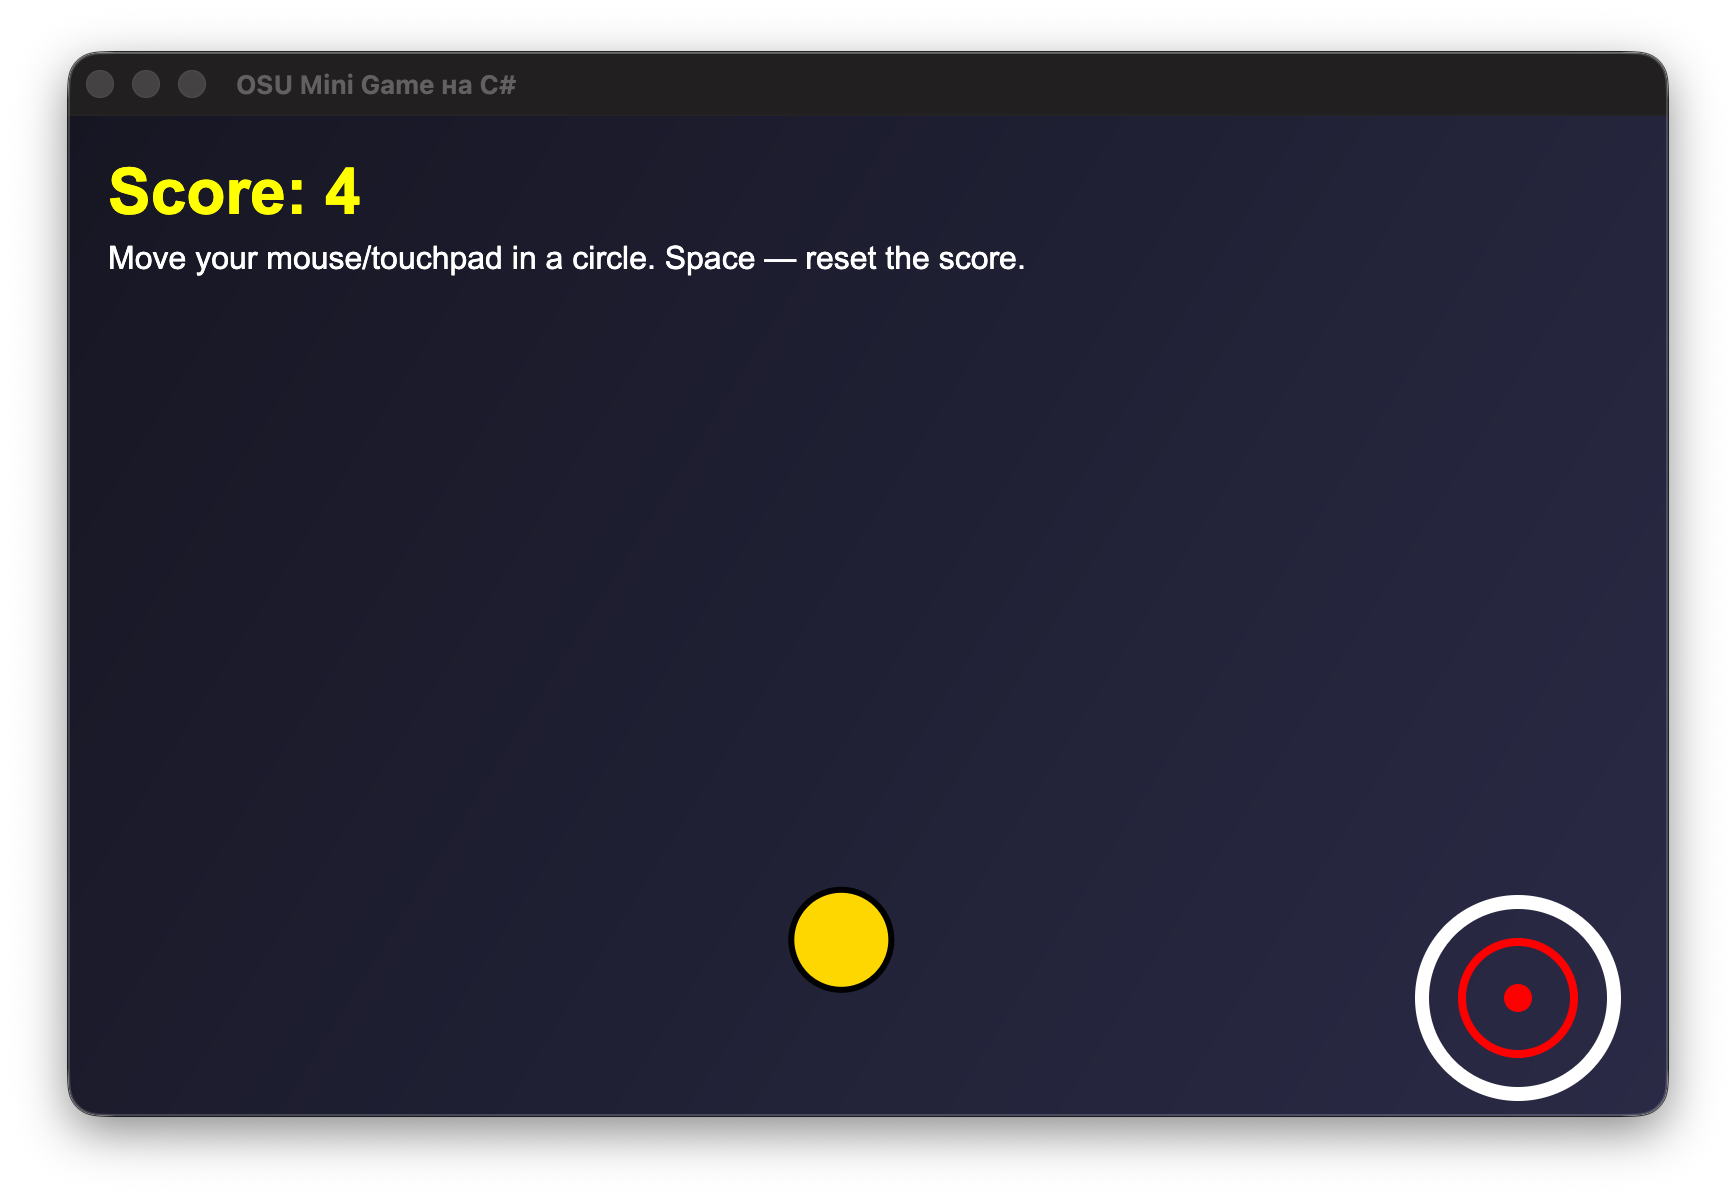
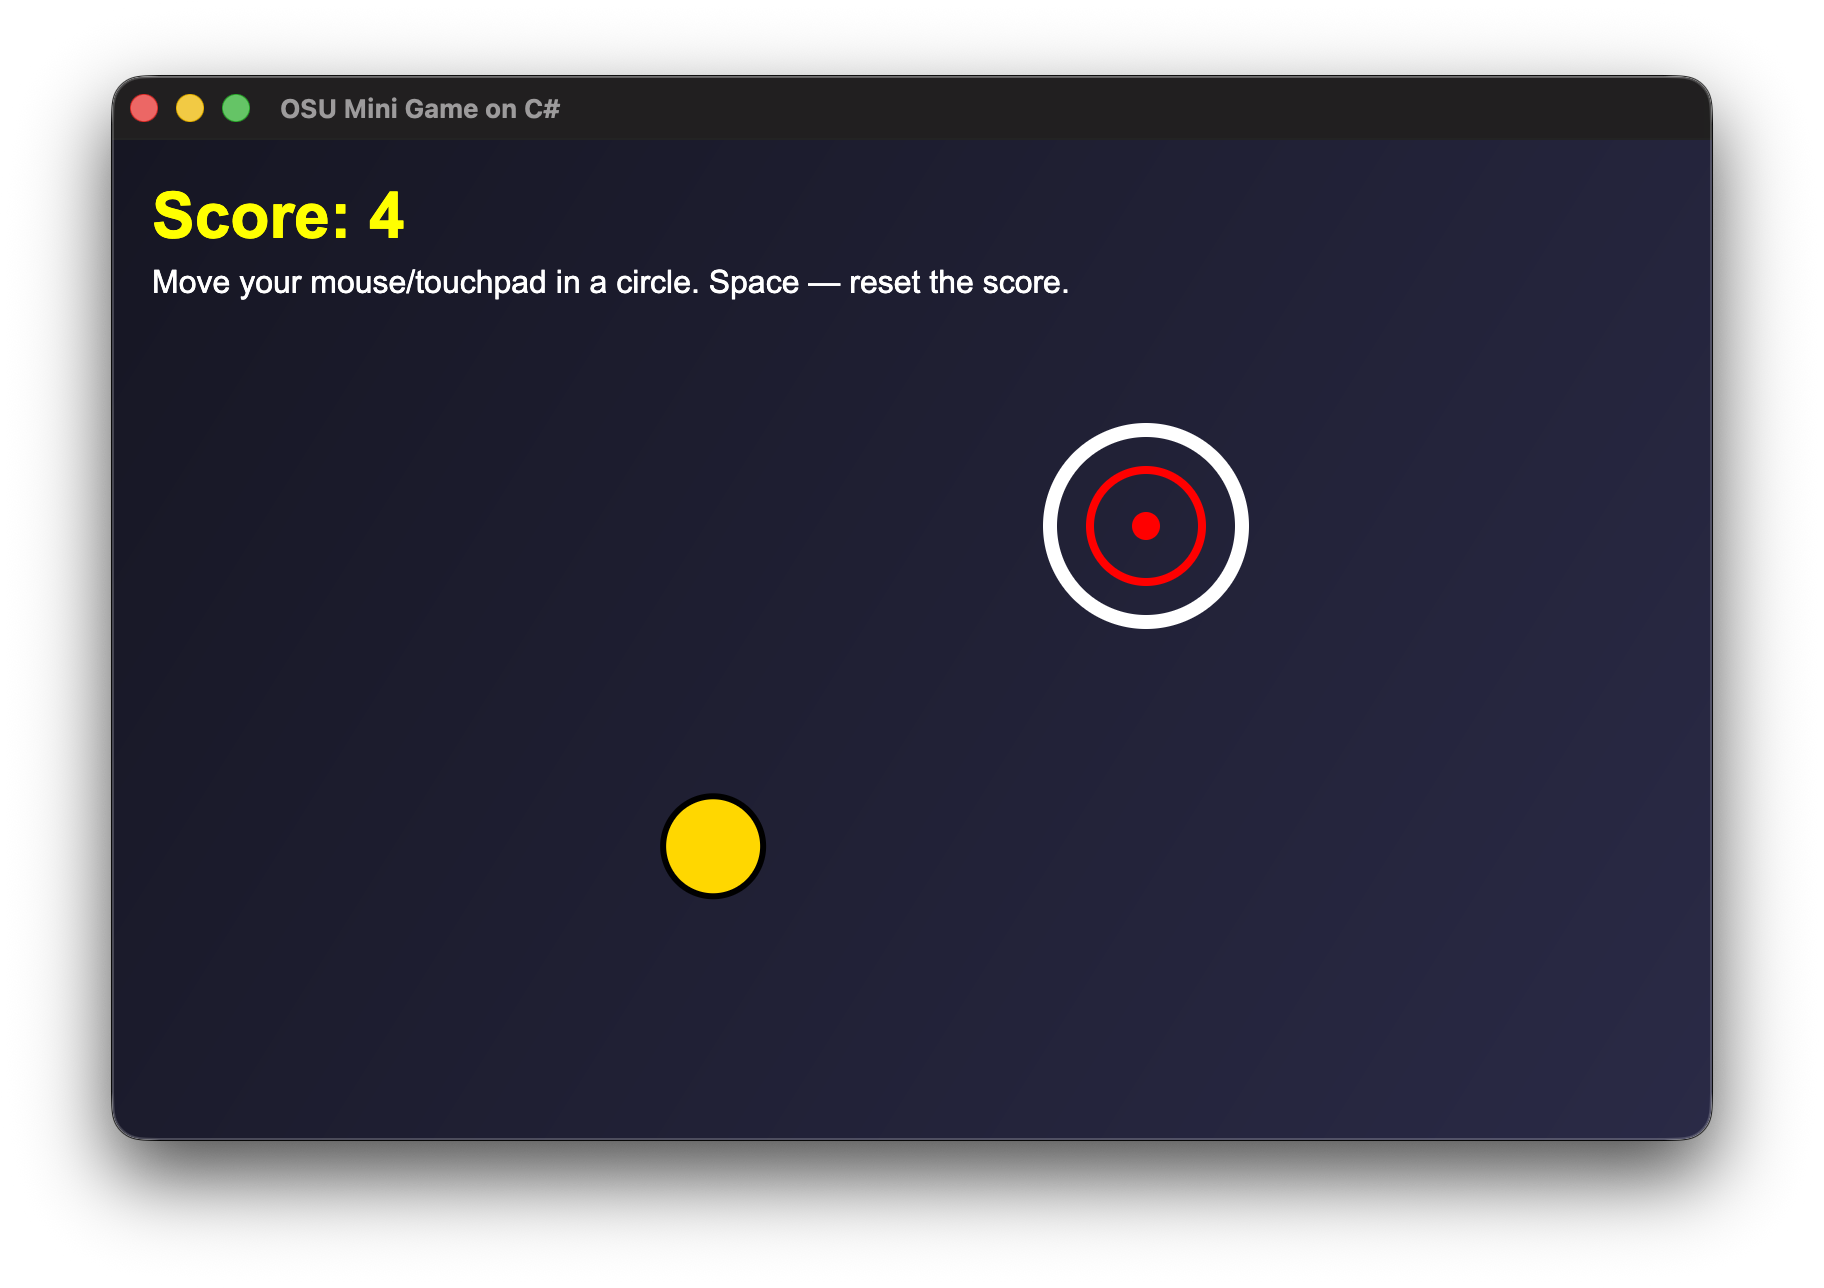
fix readme

diff --git a/Program.cs b/Program.cs
@@ -42,7 +42,7 @@ public class GameWindow : Window
 {
     public GameWindow()
     {
-        Title = "OSU Mini Game на C#";
+        Title = "OSU Mini Game on C#";
         Width = 800;
         Height = 500;
         MinWidth = 640;